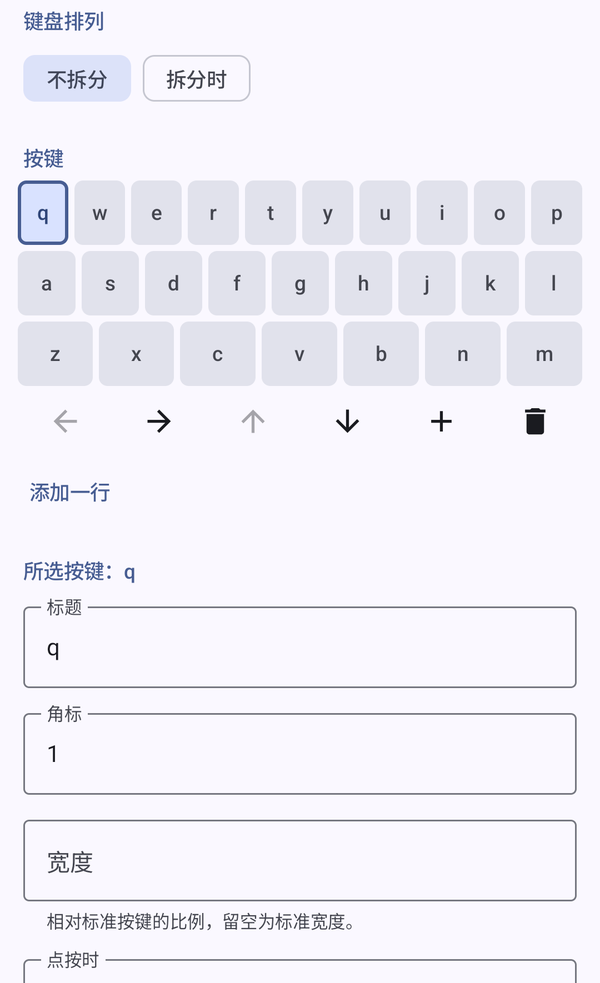
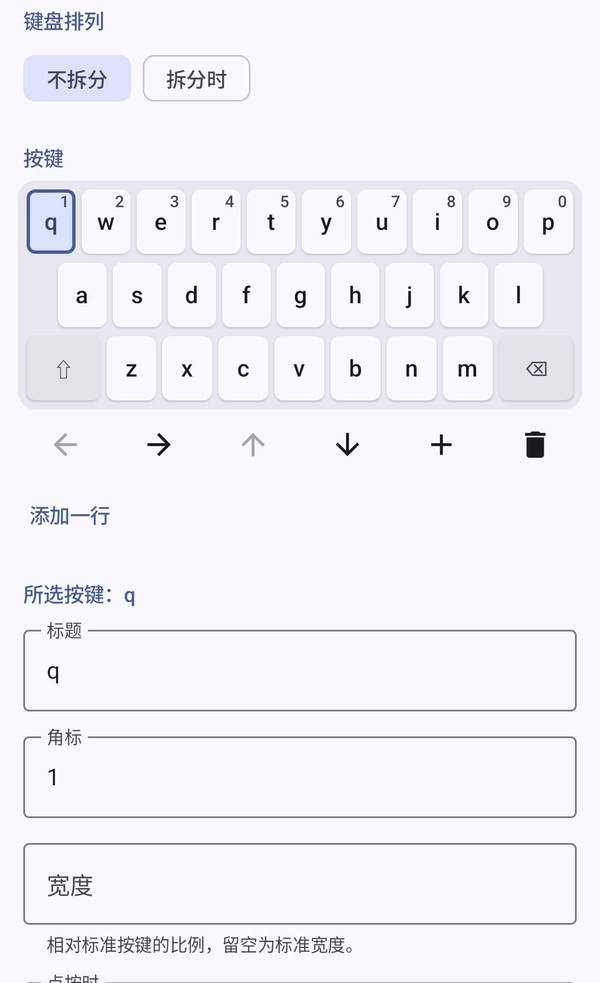
fix(settings): layout preview looks like the keyboard

diff --git a/settings/src/main/kotlin/app/songyan/ime/settings/ui/screens/LayoutEditorComponents.kt b/settings/src/main/kotlin/app/songyan/ime/settings/ui/screens/LayoutEditorComponents.kt
@@ -3,6 +3,7 @@ package app.songyan.ime.settings.ui.screens
 import androidx.compose.foundation.BorderStroke
 import androidx.compose.foundation.clickable
 import androidx.compose.foundation.layout.Arrangement
+import androidx.compose.foundation.layout.Box
 import androidx.compose.foundation.layout.Column
 import androidx.compose.foundation.layout.Row
 import androidx.compose.foundation.layout.Spacer
@@ -48,11 +49,14 @@ import androidx.compose.ui.Alignment
 import androidx.compose.ui.Modifier
 import androidx.compose.ui.res.stringResource
 import androidx.compose.ui.semantics.Role
+import androidx.compose.ui.semantics.clearAndSetSemantics
 import androidx.compose.ui.semantics.contentDescription
 import androidx.compose.ui.semantics.semantics
 import androidx.compose.ui.text.style.TextOverflow
 import androidx.compose.ui.unit.dp
+import app.songyan.ime.layout.BuiltinLayouts
 import app.songyan.ime.layout.LayoutAction
+import app.songyan.ime.layout.LayoutActionKind
 import app.songyan.ime.layout.LayoutAuxiliaryArea
 import app.songyan.ime.layout.LayoutInput
 import app.songyan.ime.layout.LayoutKey
@@ -75,7 +79,20 @@ import app.songyan.ime.settings.ui.components.RadioRow
 import app.songyan.ime.settings.ui.components.SectionHeader
 import kotlin.math.roundToInt
 
-/** The key area as the user will see it: rows of caps with relative widths; tap one to edit it. */
+/**
+ * The Shift slot and Delete the keyboard adds around a main layout's last letter row: shown so the
+ * preview reads as the keyboard does, but drawn as part of the board, not as keys to edit.
+ */
+data class KeyGridShell(
+    val leading: String,
+    val trailing: String,
+)
+
+/**
+ * The key area as the user will see it on the keyboard: caps on the keyboard surface, every row on
+ * one key width and centred, character keys light and control keys a shade darker, each key's
+ * corner hint in its corner. Tap a cap to edit it.
+ */
 @Composable
 fun KeyGrid(
     rows: List<LayoutRow>,
@@ -87,55 +104,171 @@ fun KeyGrid(
     /** The split arrangement: how many keys of each row are left of the gap, drawn as a gap of [gapFraction]. */
     cuts: List<Int>? = null,
     gapFraction: Float = 0f,
+    /** The keys the keyboard adds around the last letter row of a main layout; null for none. */
+    shell: KeyGridShell? = null,
 ) {
-    // One gap width for every row, as on the keyboard: the share of the widest row that [gapFraction] asks for.
+    // One key width for every row, as on the keyboard: rows are measured in the widest row's units.
     val widest = rows.maxOfOrNull { row -> row.keys.sumOf { it.widthWeight } } ?: 1.0
     val gapWeight = (gapFraction * widest / (1.0 - gapFraction)).toFloat()
-    Column(modifier = modifier.padding(horizontal = 12.dp), verticalArrangement = Arrangement.spacedBy(4.dp)) {
-        rows.forEachIndexed { rowIndex, row ->
-            Row(modifier = Modifier.fillMaxWidth(), horizontalArrangement = Arrangement.spacedBy(4.dp)) {
-                row.keys.forEachIndexed { keyIndex, key ->
-                    if (cuts != null && keyIndex == cuts.getOrNull(rowIndex) && keyIndex > 0 && gapWeight > 0f) {
-                        Spacer(modifier = Modifier.weight(gapWeight).height(KEY_HEIGHT))
-                    }
-                    val at = KeySelection(rowIndex, keyIndex)
-                    val selected = at == selection
-                    val face = if (asciiPreview == null) key.label else key.face(asciiPreview)
-                    val description =
-                        stringResource(R.string.layout_editor_key_description, rowIndex + 1, keyIndex + 1, face)
-                    Surface(
-                        shape = RoundedCornerShape(6.dp),
-                        color =
-                            if (selected) {
-                                MaterialTheme.colorScheme.primaryContainer
-                            } else {
-                                MaterialTheme.colorScheme.surfaceVariant
-                            },
-                        border = if (selected) BorderStroke(2.dp, MaterialTheme.colorScheme.primary) else null,
-                        modifier =
-                            Modifier
-                                .weight(key.widthWeight.toFloat().coerceAtLeast(MIN_KEY_WEIGHT))
-                                .height(KEY_HEIGHT)
-                                .semantics { contentDescription = description }
-                                .selectable(selected = selected, onClick = { onSelect(at) }),
-                    ) {
-                        Text(
-                            text = face,
-                            style = MaterialTheme.typography.labelLarge,
-                            maxLines = 1,
-                            overflow = TextOverflow.Clip,
+    // The 26-key Shift and Delete are one and a half of its ten columns wide.
+    val sideWeight = (SHELL_SIDE_COLUMNS * widest / STANDARD_COLUMNS).toFloat()
+    Surface(
+        shape = RoundedCornerShape(12.dp),
+        color = MaterialTheme.colorScheme.surfaceContainerHigh,
+        modifier = modifier.padding(horizontal = 12.dp).fillMaxWidth(),
+    ) {
+        Column(modifier = Modifier.padding(6.dp), verticalArrangement = Arrangement.spacedBy(6.dp)) {
+            rows.forEachIndexed { rowIndex, row ->
+                val last = rowIndex == rows.lastIndex
+                val sides = if (last && shell != null) 2 * sideWeight else 0f
+                val rowWeight = row.keys.sumOf { it.widthWeight.coerceAtLeast(MIN_KEY_WEIGHT.toDouble()) }.toFloat()
+                // A last row too wide for the room the side keys leave narrows its keys, as the keyboard does.
+                val room = widest.toFloat() - sides
+                val scale = if (rowWeight > room && rowWeight > 0f) room / rowWeight else 1f
+                val margin = ((room - rowWeight * scale) / 2f).coerceAtLeast(0f)
+                Row(modifier = Modifier.fillMaxWidth(), horizontalArrangement = Arrangement.spacedBy(4.dp)) {
+                    if (last && shell != null) ShellCap(shell.leading, Modifier.weight(sideWeight))
+                    if (margin > 0.01f) Spacer(Modifier.weight(margin).height(KEY_HEIGHT))
+                    row.keys.forEachIndexed { keyIndex, key ->
+                        if (cuts != null && keyIndex == cuts.getOrNull(rowIndex) && keyIndex > 0 && gapWeight > 0f) {
+                            Spacer(modifier = Modifier.weight(gapWeight).height(KEY_HEIGHT))
+                        }
+                        val at = KeySelection(rowIndex, keyIndex)
+                        KeyCap(
+                            key = key,
+                            face = previewFace(key, asciiPreview),
+                            description = "",
+                            at = at,
+                            selected = at == selection,
+                            onSelect = onSelect,
                             modifier =
-                                Modifier
-                                    .padding(horizontal = 2.dp)
-                                    .fillMaxSize()
-                                    .wrapContentSize(Alignment.Center),
+                                Modifier.weight(
+                                    key.widthWeight.toFloat().coerceAtLeast(MIN_KEY_WEIGHT) * scale,
+                                ),
                         )
                     }
+                    if (margin > 0.01f) Spacer(Modifier.weight(margin).height(KEY_HEIGHT))
+                    if (last && shell != null) ShellCap(shell.trailing, Modifier.weight(sideWeight))
                 }
             }
         }
     }
 }
+
+/** One editable cap: the keyboard's light key, or a darker control key; its corner hint top right. */
+@Composable
+private fun KeyCap(
+    key: LayoutKey,
+    face: String,
+    description: String,
+    at: KeySelection,
+    selected: Boolean,
+    onSelect: (KeySelection) -> Unit,
+    modifier: Modifier,
+) {
+    val spoken =
+        description.ifEmpty {
+            stringResource(R.string.layout_editor_key_description, at.row + 1, at.key + 1, face)
+        }
+    val control = key.action.type in CONTROL_KINDS
+    Surface(
+        shape = RoundedCornerShape(6.dp),
+        color =
+            when {
+                selected -> MaterialTheme.colorScheme.primaryContainer
+                control -> MaterialTheme.colorScheme.surfaceContainerHighest
+                else -> MaterialTheme.colorScheme.surfaceBright
+            },
+        border = if (selected) BorderStroke(2.dp, MaterialTheme.colorScheme.primary) else null,
+        shadowElevation = if (selected) 0.dp else 1.dp,
+        modifier =
+            modifier
+                .height(KEY_HEIGHT)
+                .semantics { contentDescription = spoken }
+                .selectable(selected = selected, onClick = { onSelect(at) }),
+    ) {
+        Box {
+            Text(
+                text = face,
+                style = MaterialTheme.typography.titleMedium,
+                maxLines = 1,
+                overflow = TextOverflow.Clip,
+                modifier =
+                    Modifier
+                        .padding(horizontal = 2.dp)
+                        .fillMaxSize()
+                        .wrapContentSize(Alignment.Center),
+            )
+            val hint = key.secondaryLabel?.takeIf { it != BuiltinLayouts.MERGED_KEY_HINT }
+            if (!hint.isNullOrEmpty()) {
+                Text(
+                    text = hint,
+                    style = MaterialTheme.typography.labelSmall,
+                    color = MaterialTheme.colorScheme.onSurfaceVariant,
+                    maxLines = 1,
+                    modifier = Modifier.align(Alignment.TopEnd).padding(top = 2.dp, end = 4.dp),
+                )
+            }
+        }
+    }
+}
+
+/**
+ * What the keyboard draws on [key]: a letter key and a merged pair read in lowercase as typed; a
+ * nine-key group (ABC) keeps its capitals, as the keypad draws it.
+ */
+private fun previewFace(
+    key: LayoutKey,
+    asciiPreview: Boolean?,
+): String {
+    val face = if (asciiPreview == null) key.label else key.face(asciiPreview)
+    val letters =
+        key.action.type == LayoutActionKind.CODE &&
+            face.length in 1..MERGED_PAIR_LETTERS &&
+            face.all { it.isLetter() }
+    return if (letters) face.lowercase() else face
+}
+
+private const val MERGED_PAIR_LETTERS = 2
+
+/** A cap the keyboard adds itself: shown for the shape, not selectable. */
+@Composable
+private fun ShellCap(
+    label: String,
+    modifier: Modifier,
+) {
+    Surface(
+        shape = RoundedCornerShape(6.dp),
+        color = MaterialTheme.colorScheme.surfaceContainerHighest,
+        shadowElevation = 1.dp,
+        modifier = modifier.height(KEY_HEIGHT).clearAndSetSemantics {},
+    ) {
+        Text(
+            text = label,
+            style = MaterialTheme.typography.labelLarge,
+            color = MaterialTheme.colorScheme.onSurfaceVariant,
+            maxLines = 1,
+            modifier = Modifier.fillMaxSize().wrapContentSize(Alignment.Center),
+        )
+    }
+}
+
+private const val STANDARD_COLUMNS = 10.0
+private const val SHELL_SIDE_COLUMNS = 1.5
+
+private val CONTROL_KINDS =
+    setOf(
+        LayoutActionKind.SHIFT,
+        LayoutActionKind.BACKSPACE,
+        LayoutActionKind.ENTER,
+        LayoutActionKind.GLOBE,
+        LayoutActionKind.MODE_SWITCH,
+        LayoutActionKind.PAGE_SWITCH,
+        LayoutActionKind.LANGUAGE_SWITCH,
+        LayoutActionKind.LAYOUT_PAGE_SWITCH,
+        LayoutActionKind.SYMBOL_LOCK,
+        LayoutActionKind.CLEAR_INPUT,
+    )
 
 /** A title typed by hand wins over the automatic one, or the field would not change what the key shows. */
 internal fun keyWithTypedLabel(

diff --git a/settings/src/main/kotlin/app/songyan/ime/settings/ui/screens/LayoutEditorScreen.kt b/settings/src/main/kotlin/app/songyan/ime/settings/ui/screens/LayoutEditorScreen.kt
@@ -38,7 +38,9 @@ import androidx.lifecycle.viewmodel.compose.viewModel
 import app.songyan.ime.layout.BuiltinLayouts
 import app.songyan.ime.layout.KeyboardNumericMarks
 import app.songyan.ime.layout.LayoutAction
+import app.songyan.ime.layout.LayoutActionKind
 import app.songyan.ime.layout.LayoutAuxiliaryArea
+import app.songyan.ime.layout.LayoutInput
 import app.songyan.ime.layout.LayoutKey
 import app.songyan.ime.layout.LayoutRow
 import app.songyan.ime.layout.LayoutSplitConfiguration
@@ -126,7 +128,25 @@ fun LayoutEditorScreen(
             } else {
                 current.editRows
             }
+        // The keyboard adds the Shift slot and Delete around a shipped-shape pad's last letter row.
+        val separator = stringResource(R.string.layout_editor_shell_separator)
+        val shell =
+            if (current.isNineKey ||
+                previewRows.size != SHELL_LETTER_ROWS ||
+                previewRows.last().keys.any {
+                    it.action.type == LayoutActionKind.SHIFT || it.action.type == LayoutActionKind.BACKSPACE
+                }
+            ) {
+                null
+            } else {
+                val merged =
+                    current.layout.input.builtinLayout.let {
+                        it == LayoutInput.Builtin.MERGED14 || it == LayoutInput.Builtin.MERGED18
+                    }
+                KeyGridShell(leading = if (merged) separator else "⇧", trailing = "⌫")
+            }
         GridSections(
+            shell = shell,
             editPrimaryAction = !selectingFirst || !liveFirst,
             rows = previewRows,
             selection = current.selection,
@@ -648,6 +668,8 @@ private fun GridSections(
     /** The gap and the cuts are edited elsewhere (a main layout's split view); only the activation shows here. */
     activationOnly: Boolean = false,
     editPrimaryAction: Boolean = true,
+    /** The keys the keyboard adds around the last letter row; null for none. */
+    shell: KeyGridShell? = null,
 ) {
     val template = LayoutKey("·", action = LayoutAction.literal("·"))
     beforeGrid()
@@ -659,6 +681,7 @@ private fun GridSections(
         asciiPreview = asciiPreview,
         cuts = cuts,
         gapFraction = gapFraction,
+        shell = shell,
     )
     val inSplit = cuts != null
     if (!fixedStructure) {
@@ -810,3 +833,6 @@ private fun BottomRowEditor(
         }
     }
 }
+
+/** Letter rows of the shipped pad shapes, the ones the keyboard folds Shift and Delete into. */
+private const val SHELL_LETTER_ROWS = 3

diff --git a/ime/src/main/kotlin/app/songyan/ime/ime/KeyboardPages.kt b/ime/src/main/kotlin/app/songyan/ime/ime/KeyboardPages.kt
@@ -683,7 +683,7 @@ internal object KeyboardPages {
      * of the QW key stays. The face is lowercase like the 26-key letters; Shift uppercases it.
      */
     private fun mergedFace(key: LayoutKey): LayoutKey {
-        val hint = if (key.secondaryLabel == MERGED_KEY_HINT) null else key.secondaryLabel
+        val hint = if (key.secondaryLabel == BuiltinLayouts.MERGED_KEY_HINT) null else key.secondaryLabel
         val face = if (key.action.type == LayoutActionKind.CODE) key.label.lowercase() else key.label
         return key.copy(label = face, secondaryLabel = hint)
     }
@@ -779,8 +779,6 @@ internal object KeyboardPages {
         val hint = key.secondaryLabel?.takeIf { hint -> options.any { it.label == hint } } ?: marks.first()
         return key.copy(secondaryLabel = hint, longPress = options)
     }
-
-    private const val MERGED_KEY_HINT = "合并键"
 
     private fun englishRows(): List<LayoutRow> =
         englishPage.rows.map { row -> LayoutRow(row.keys.map { englishKey(it) }) }

diff --git a/core/layout/src/main/kotlin/app/songyan/ime/layout/BuiltinLayouts.kt b/core/layout/src/main/kotlin/app/songyan/ime/layout/BuiltinLayouts.kt
@@ -268,6 +268,12 @@ object BuiltinLayouts {
     /** Long-press digit shared by the first key and 2-9. */
     const val T9_DIGIT_ONE: String = "1"
 
+    /**
+     * The corner hint the bundled merged pads declare on their two-letter keys. It is internal
+     * jargon, so neither the keyboard nor the editor's preview draws it; a real hint stays.
+     */
+    const val MERGED_KEY_HINT: String = "合并键"
+
     /** The ordered builtin layouts; the registry starts from these. */
     val all: List<LayoutDefinition>
         get() = listOf(qwerty26, merged14, merged18, phone9, zhuyin41, cangjie26, romaji26, kana12)
@@ -610,7 +616,7 @@ object BuiltinLayouts {
             secondaryLabel =
                 when {
                     group == "qw" -> "1 !"
-                    group.length > 1 -> "合并键"
+                    group.length > 1 -> MERGED_KEY_HINT
                     else -> null
                 },
             width = width,
